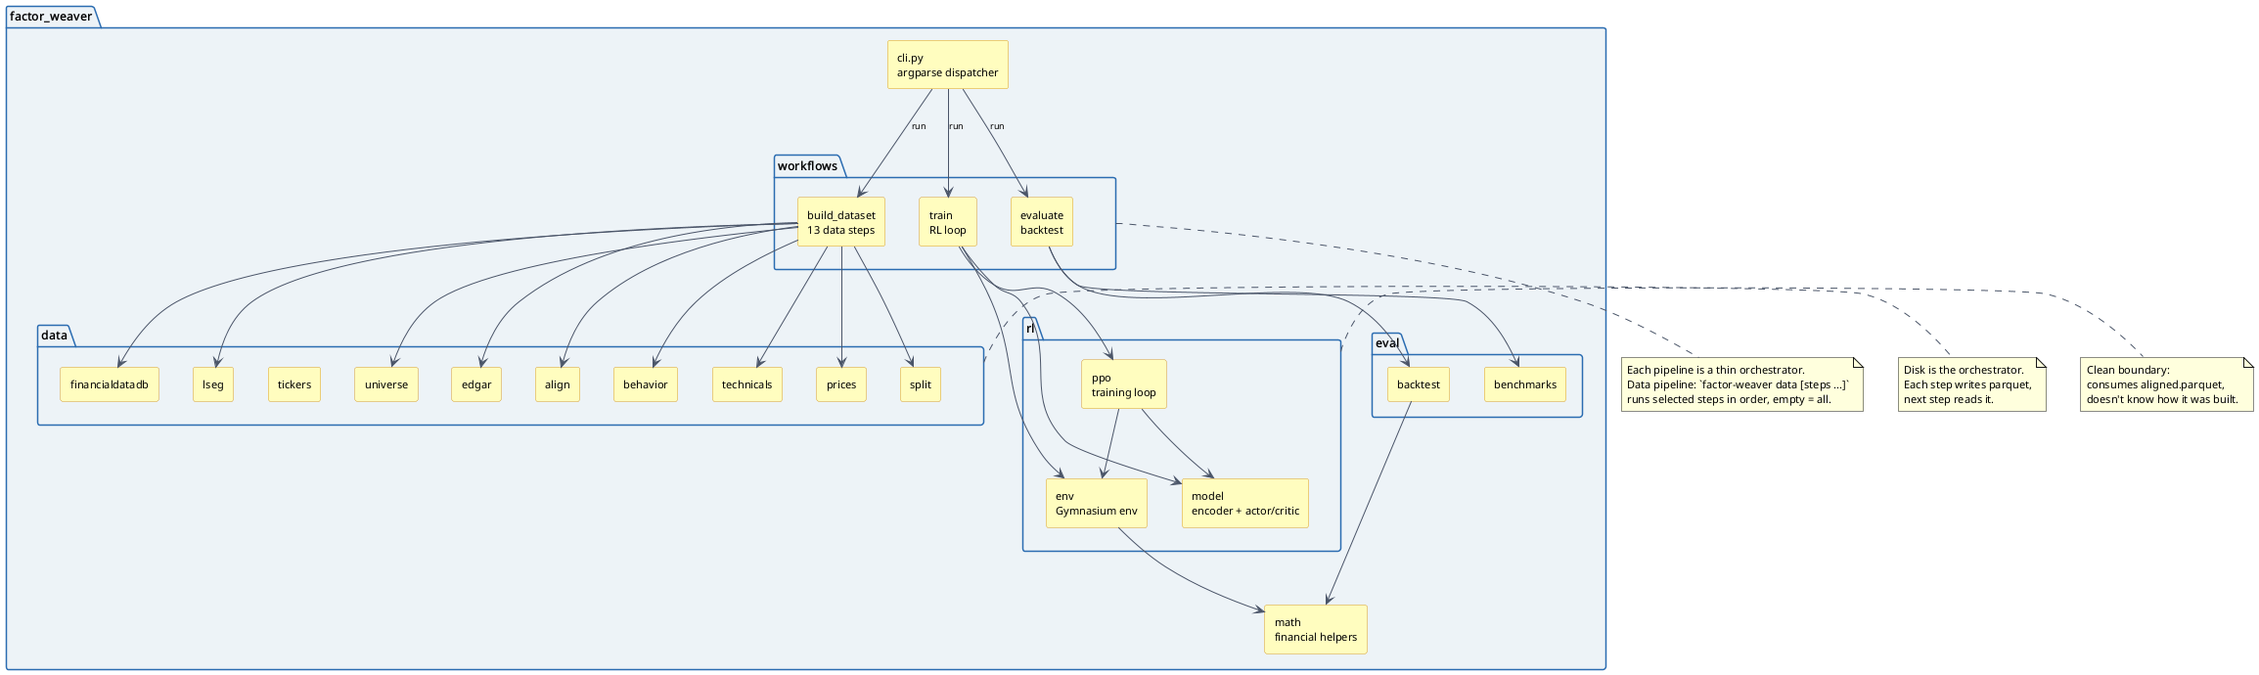
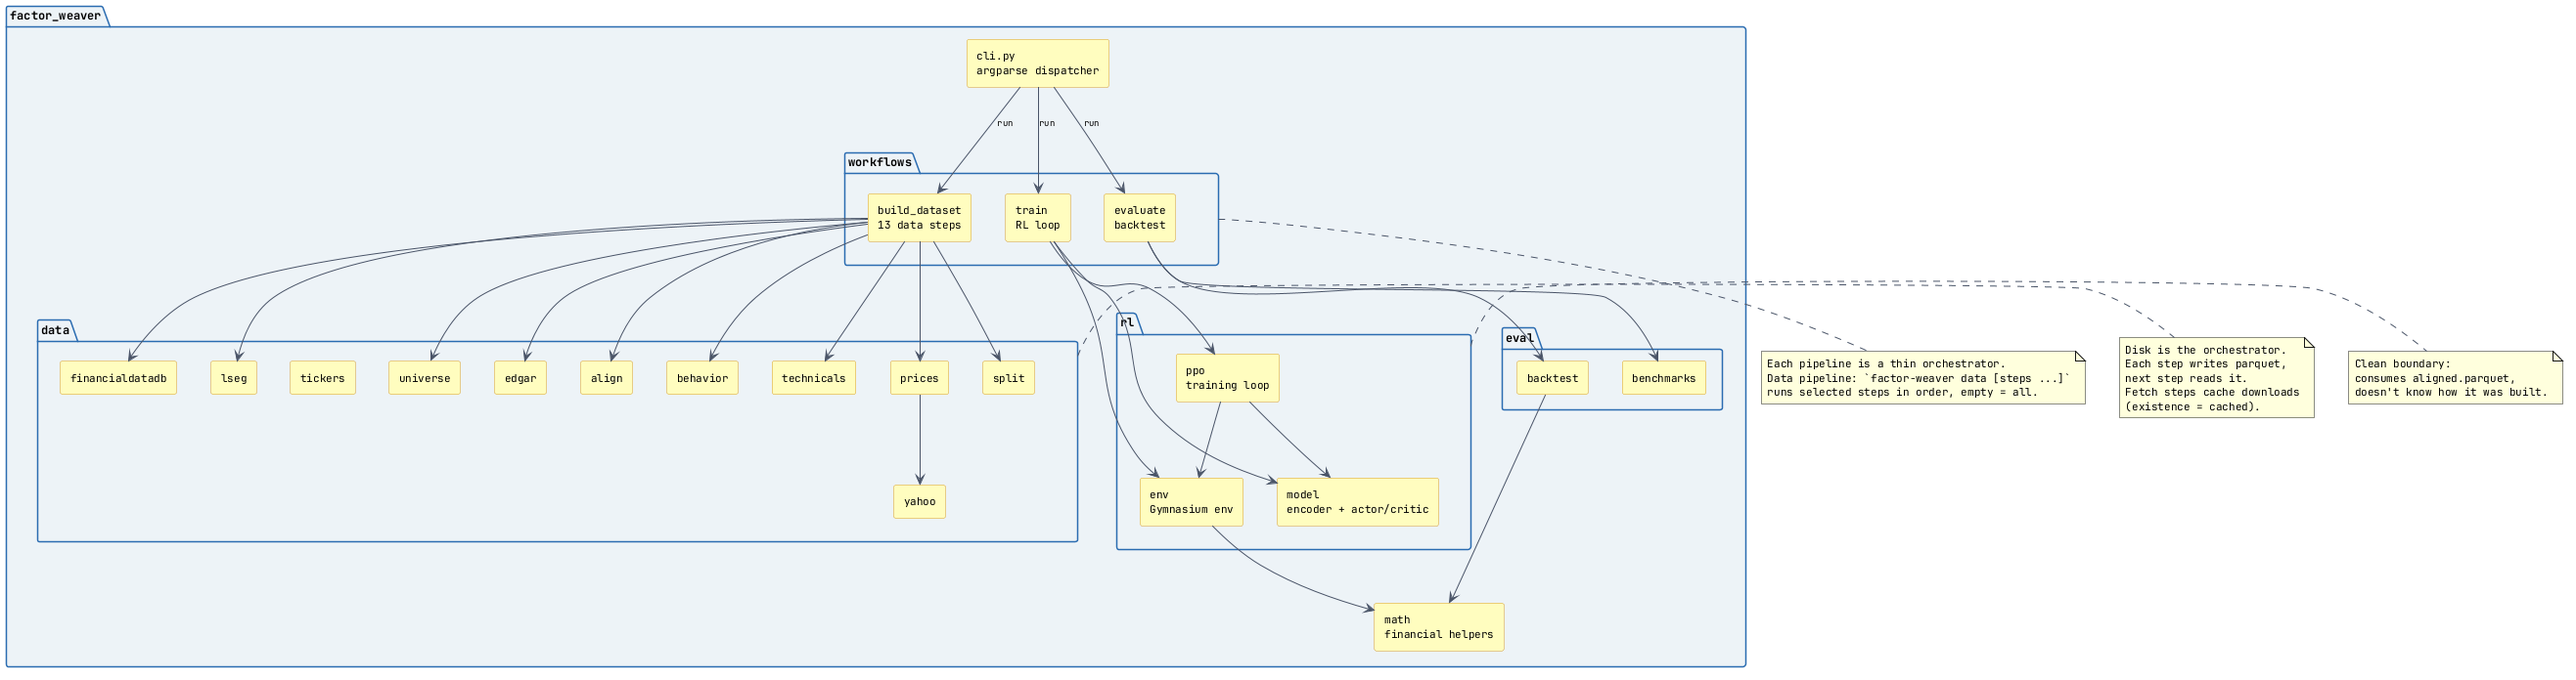
docs: reflect price changes

diff --git a/docs/data.md b/docs/data.md
@@ -14,6 +14,7 @@
 - method
   - rolling top 50 companies in S&P500
   - redefine list in each period
+  - exclude RICs with no price content (`universe.exclude_rics`); next-ranked company fills the slot
 - alignment
   - forward-fill fundamentals with per-group staleness counter
   - time-decay for behavioral features
@@ -38,12 +39,9 @@
       - positive/negative sentiment based on posts or news
 - extra assets
   - risk-free
-    - price, technical, behavioral
-  - S&P500 stock index?
-    - price, technical, behavioral
+  - S&P500 stock index — `^GSPC` (`extra_prices.parquet`)
 - market-wide indicators
-  - VIX
-  - ...?
+  - VIX — `^VIX` (`extra_prices.parquet`)
 
 ## Sources
 
@@ -55,8 +53,9 @@
 - filing dates
   - <https://www.sec.gov/data-research/sec-markets-data/financial-statement-data-sets> — EDGAR submissions API for 10-Q filing dates (anchors fundamental alignment, avoids look-ahead bias)
 - price
-  - LSEG data API — daily OHLCV (RTS-adjusted), primary source
-  - <https://finance.yahoo.com/> via `yfinance` — fallback for RICs LSEG has no data for, plus config-listed index/indicator series (`data/interim/extra_prices.parquet`); per-symbol raw cache under `data/raw/yahoo/prices/`
+  - LSEG data API — daily OHLCV (RTS-adjusted), primary source; per-RIC cache in `data/raw/lseg/prices/`
+  - stale RICs retargeted via `lseg.ric_fallbacks` (FSR.N^B01 → USB.N, KHC.OQ → KHC.N), rows relabelled
+  - <https://finance.yahoo.com/> via `yfinance` — fallback for remaining gaps (validated against the universe window) plus config index/indicator series (`data/interim/extra_prices.parquet`); per-symbol cache in `data/raw/yahoo/prices/`
 - technical
   - computed from prices (moving averages, volume indicators)
 - behavioral
@@ -75,3 +74,13 @@
 - **Membership ~20 names short pre-2000**: the joiner/leaver file has ~20 more Leaver than
   real Joiner events before 2000, so reconstructed membership counts 477-505 vs. ~500
   (1994: 478). Top-50 universe should be unaffected.
+
+### Prices
+
+- **Retired RICs with no price content**: FSR.N^B01 sourced from USB.N (same PermID,
+  `lseg.ric_fallbacks`); ENE.N^A02 has no LSEG or Yahoo content and is excluded
+  (`universe.exclude_rics`), next-ranked company backfills its 2 quarters (2000Q3/Q4)
+- **Adjustment basis differs across vendors**: LSEG RTS vs Yahoo split/dividend-adjusted
+  (back-adjusted on each dividend); Yahoo rows only fill LSEG gaps
+- **Existence-based caches**: delete `data/raw/lseg/prices/` and `data/raw/yahoo/prices/`
+  to refetch after changing the universe window
